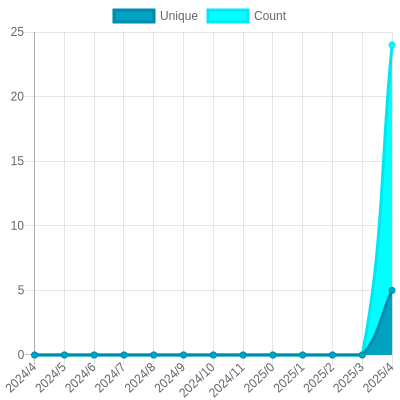
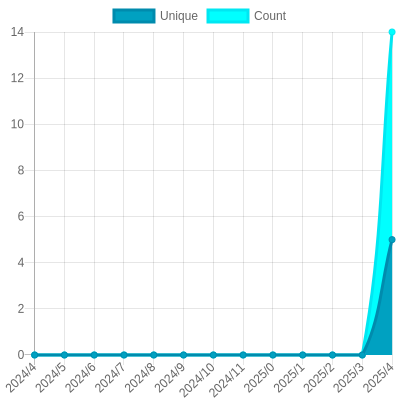
Update views

diff --git a/readme/794605585/year.md b/readme/794605585/year.md
@@ -26,7 +26,7 @@
 			<code>5</code>
 		</td>
 		<td>
-			<code>24</code>
+			<code>14</code>
 		</td>
 	</tr>
 	<tr>
@@ -164,7 +164,7 @@
 </table>
 
 </details>
-<small><i>Last updated on 2024/5/16 1:05 AM UTC</i></small>
+<small><i>Last updated on 2024/5/16 6:16 AM UTC</i></small>
 
 ## ✂Copy and 📋 Paste
 ### SVG Badge

diff --git a/README.md b/README.md
@@ -53,7 +53,7 @@ The project created and maintained by [gayanvoice](https://github.com/gayanvoice
 	</tr>
 </table>
 
-<small><i>Last updated on 2024/5/16 1:05 AM UTC</i></small>
+<small><i>Last updated on 2024/5/16 6:16 AM UTC</i></small>
 
 ## ✂Copy and 📋 Paste
 ### Total Views Badge

diff --git a/readme/777208957/year.md b/readme/777208957/year.md
@@ -164,7 +164,7 @@
 </table>
 
 </details>
-<small><i>Last updated on 2024/5/16 1:04 AM UTC</i></small>
+<small><i>Last updated on 2024/5/16 6:16 AM UTC</i></small>
 
 ## ✂Copy and 📋 Paste
 ### SVG Badge
